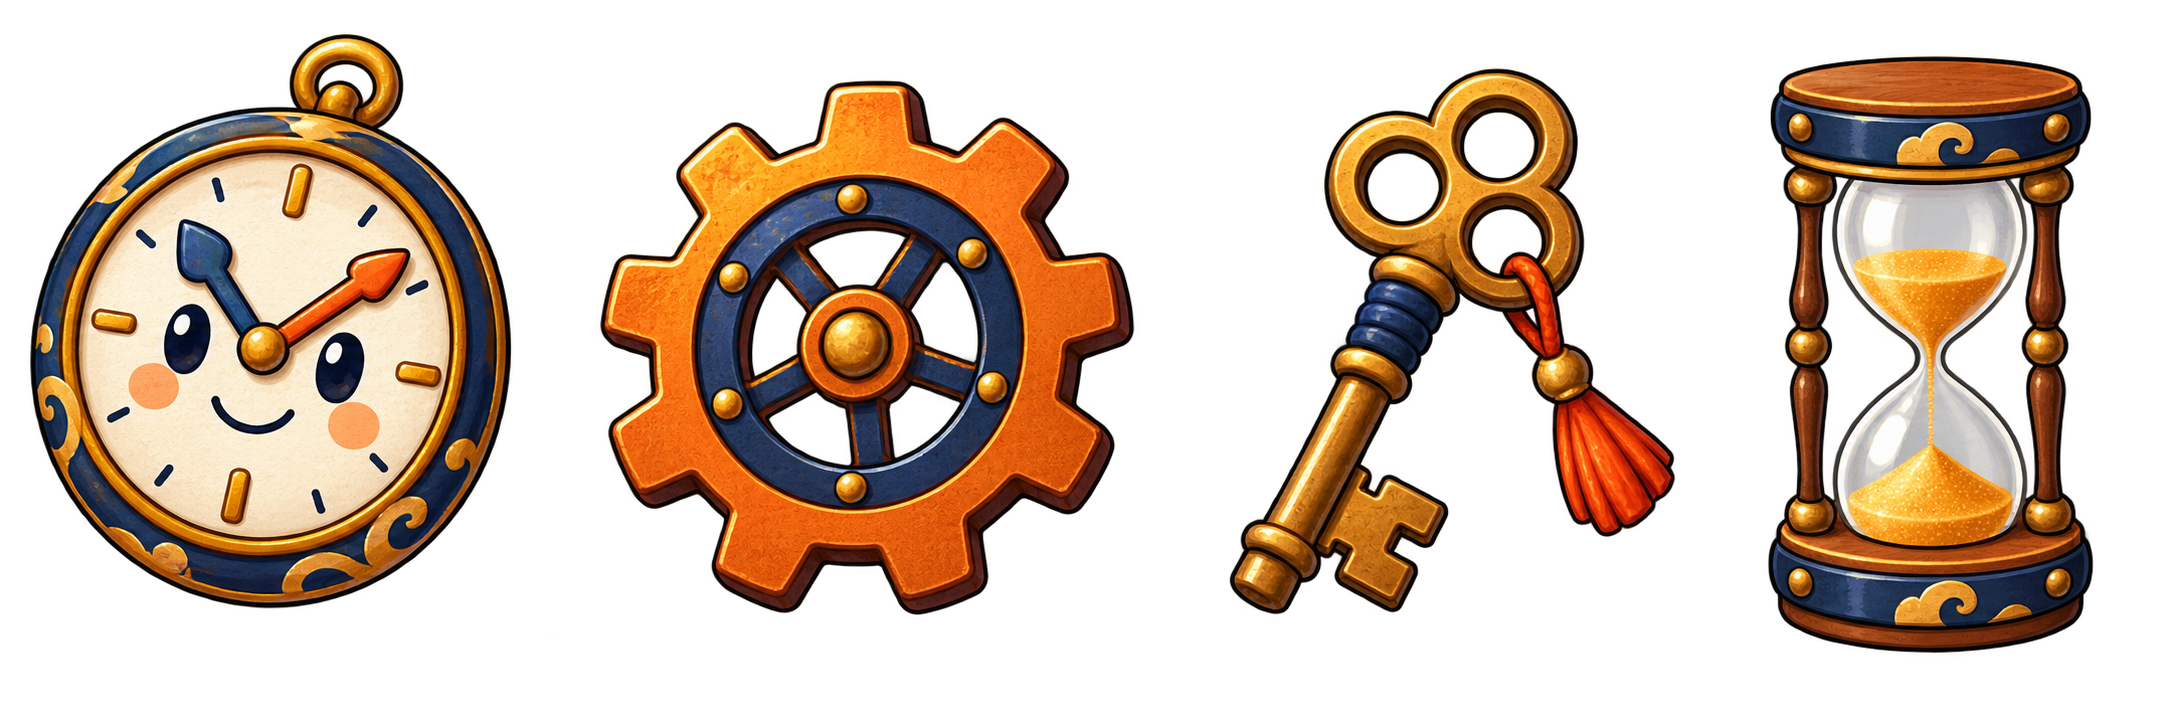
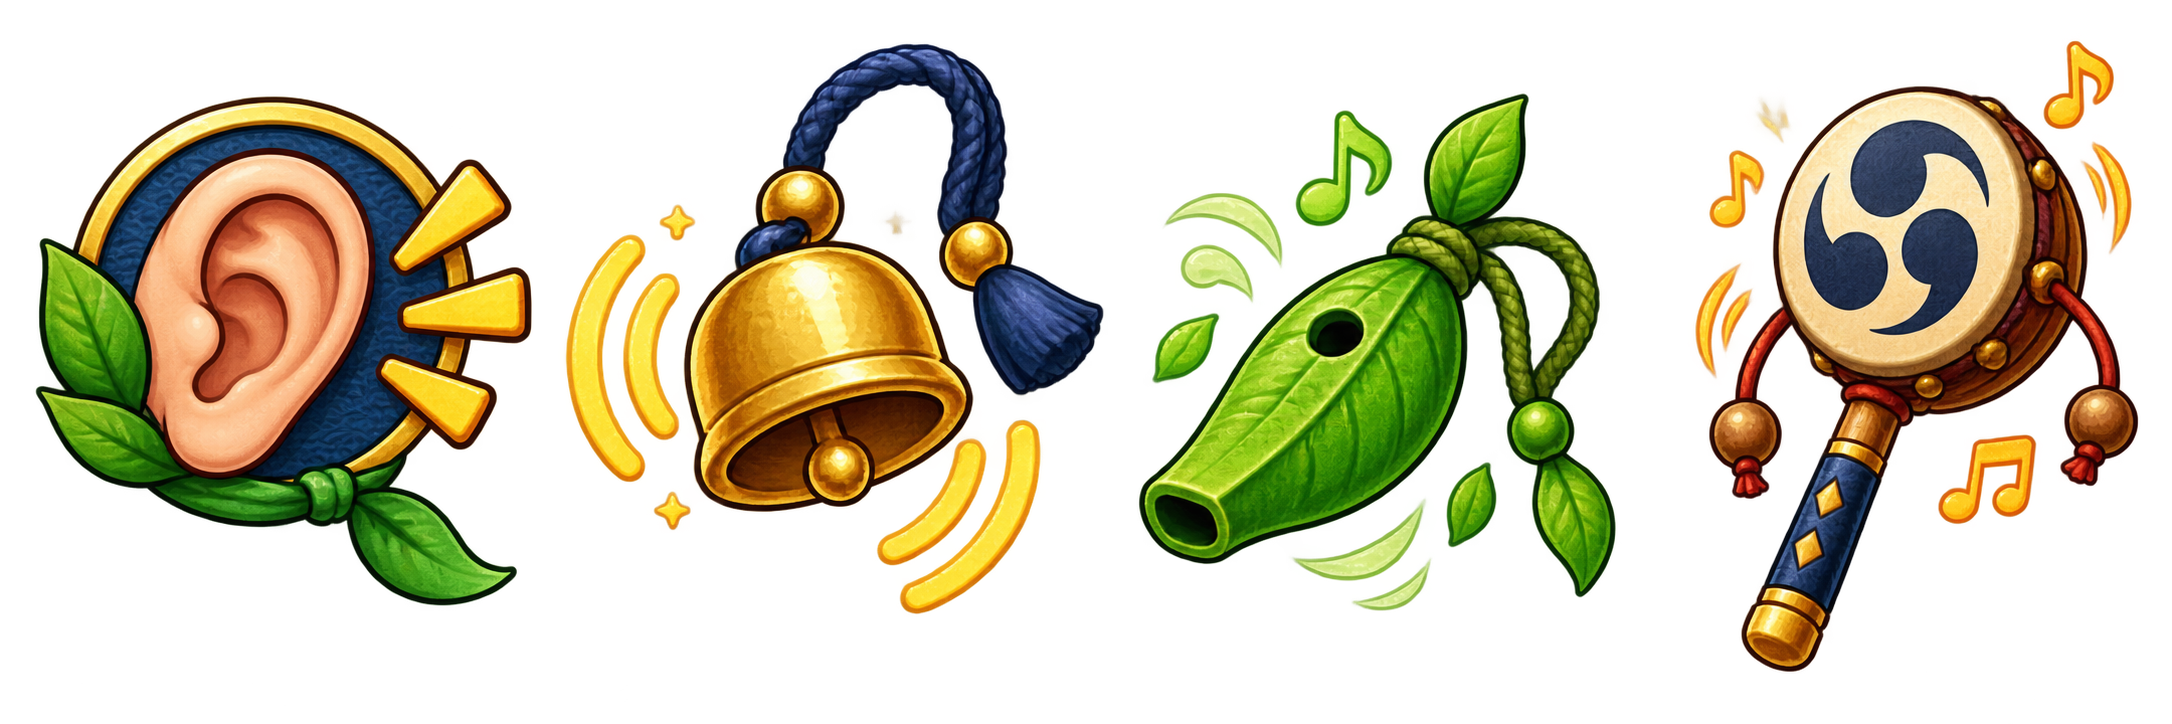
fix(修行): アイテム絵の取りちがえを直し、あそびかたを横3列・選択肢に番号を出す
- アイテム絵のファイル名と中身がずれていた。かんじ↔ローマ字、とけい↔フォニックス を
  入れ替えて、各アプリ・ランディングが自分の世界観の絵を出すようにする
  （とけいのランディングに耳と鈴、ローマ字に筆と印が出ていた）
- フォニックスのランディングだけ番号付きの道具絵を使っていたので、自分のアイテム絵に統一。
  番号付きの絵は ninja-step-tools-numbered.png に改名（参照なし）
- あそびかた3ステップを横3列にそろえる（カタカナ・ローマ字・フォニックス。スマホは1列）
- 問題の選択肢に1問ごとの通し番号を左上に出す（全5アプリ共通）
- フォニックス: c と k がどちらも「ク」のため同じ選択肢が2つ並ぶことがあったのを修正。
  音で重複を落としてからまちがい選択肢を取り、最後に必ず重複を落とす（3000回サンプルで0件）

diff --git a/js/phonics.js b/js/phonics.js
@@ -54,16 +54,33 @@
 
   function pick(arr, n) { return shuffle(arr.slice()).slice(0, n); }
 
+  // 同じ見た目の選択肢が2つ並ぶと「どっちも正解では？」になるので、必ず落とす
+  function uniq(arr) {
+    var seen = {};
+    return arr.filter(function (v) {
+      if (seen[v]) return false;
+      seen[v] = true;
+      return true;
+    });
+  }
+
   /* ---------- 出題づくり ---------- */
 
   // 1. もじの おと：文字を見て「名前」ではなく「音」を えらぶ
   function buildOto() {
     return pick(D.letters, QUESTIONS).map(function (x) {
-      var others = D.letters.filter(function (y) {
-        return y.l !== x.l && y.oto !== x.oto && y.oto !== x.name;
+      // c と k はどちらも「ク」のように、別の文字でも音が同じことがある。
+      // 音で重複を落としてから2つ取らないと、同じ選択肢が2つ並ぶ
+      var used = {};
+      used[x.oto] = true;
+      used[x.name] = true;
+      var others = shuffle(D.letters.slice()).filter(function (y) {
+        if (y.l === x.l || used[y.oto]) return false;
+        used[y.oto] = true;
+        return true;
       });
       // まちがい選択肢に **その文字の「名前」** を まぜる（ここが つまずきの 正体）
-      var wrongs = pick(others, 2).map(function (y) { return y.oto; });
+      var wrongs = others.slice(0, 2).map(function (y) { return y.oto; });
       return {
         type: 'oto',
         show: x.l,
@@ -71,7 +88,7 @@
         word: x.oto,
         cat: 'もじの おと',
         hint: '「' + x.l + '」の 名前は ' + x.name + '。でも 音は ' + x.oto + '。' + x.ex + '（' + x.ja + '）の はじめの 音です。',
-        choices: shuffle([x.oto, x.name].concat(wrongs)),
+        choices: shuffle(uniq([x.oto, x.name].concat(wrongs))),
       };
     });
   }
@@ -89,7 +106,7 @@
           var hit = D.letters.filter(function (y) { return y.l === c; })[0];
           return hit ? hit.oto : c;
         }).join('・') + ' を つなげて「' + x.w + '」（' + x.ja + '）。',
-        choices: shuffle([x.w].concat(x.near.slice(0, 3))),
+        choices: shuffle(uniq([x.w].concat(x.near.slice(0, 3)))),
       };
     });
   }
@@ -105,7 +122,7 @@
         cat: 'まほうの e',
         hint: 'さいごの e は 読みません。でも まえの 母音を 名前の 音に かえます。' +
               'ローマ字読みだと「' + x.romaji + '」ですが、英語では「' + x.yomi + '」（' + x.ja + '）。',
-        choices: shuffle([x.yomi, x.romaji, x.eYomi]),
+        choices: shuffle(uniq([x.yomi, x.romaji, x.eYomi])),
       };
     });
   }

diff --git a/css/ninja-kids.css b/css/ninja-kids.css
@@ -1925,3 +1925,31 @@ body.ninja-phonics { --nk-items:url('/assets/images/ninja/items/phonics-items.we
 .ninja-kids.ninja-kanji .nk-doc-ref a { color:#ffad92; }
 .ninja-kids.ninja-kanji .nk-back-tools a { border-color:#ffad92; color:#ffad92; }
 .ninja-kids.ninja-kanji .nk-back-tools a:hover { background:#ffad92; color:#07131a; }
+
+/* 選択肢の通し番号（2026-08-26）。
+   「2ばんめの やつ」と口で言えるように、1問ごとに 1 から振り直して左上に出す。
+   文字は中央ぞろえのままにしたいので、番号は絶対配置にしてレイアウトに影響させない。 */
+.ninja-kids :is(.tk-options,.kj-options,.kt-choices,.rj-choices,.pn-choices) {
+  counter-reset:nk-opt;
+}
+.ninja-kids :is(.tk-opt,.kj-opt,.kt-choice,.rj-choice,.pn-choice) {
+  position:relative;
+}
+.ninja-kids :is(.tk-options,.kj-options,.kt-choices,.rj-choices,.pn-choices)>:is(.tk-opt,.kj-opt,.kt-choice,.rj-choice,.pn-choice)::before {
+  counter-increment:nk-opt;
+  content:counter(nk-opt);
+  display:grid;
+  place-items:center;
+  position:absolute;
+  top:5px;
+  left:7px;
+  width:20px;
+  height:20px;
+  border-radius:50%;
+  background:color-mix(in srgb,var(--nk-accent) 15%,#fff);
+  color:var(--nk-accent-dark);
+  font-size:11px;
+  font-weight:900;
+  line-height:1;
+  pointer-events:none;
+}

diff --git a/css/katakana.css b/css/katakana.css
@@ -152,7 +152,7 @@ body{
 /* ====== おうちのかたへ・FAQ ====== */
 .kt-doc{max-width:700px;margin:40px auto 0;padding:0 20px}
 .kt-doc h2{font-size:15px;font-weight:900;margin:28px 0 14px;letter-spacing:.06em}
-.kt-steps{display:grid;gap:12px}
+.kt-steps{display:grid;grid-template-columns:repeat(3,1fr);gap:14px}
 .kt-step{border:1px solid var(--kt-line);border-radius:12px;background:#fff;padding:16px 18px}
 .kt-step-n{
   display:inline-grid;place-items:center;width:24px;height:24px;border-radius:50%;
@@ -175,6 +175,7 @@ body{
 
 @media (max-width:767px){
   .kt-hero{padding:24px 20px 22px}
+  .kt-steps{grid-template-columns:1fr}
   .kt-hero h1{font-size:26px}
   .kt-q-word{font-size:28px}
   .kt-q-word.is-big{font-size:64px}

diff --git a/css/phonics.css b/css/phonics.css
@@ -152,7 +152,7 @@ body{
 /* ====== おうちのかたへ・FAQ ====== */
 .pn-doc{max-width:700px;margin:40px auto 0;padding:0 20px}
 .pn-doc h2{font-size:15px;font-weight:900;margin:28px 0 14px;letter-spacing:.06em}
-.pn-steps{display:grid;gap:12px}
+.pn-steps{display:grid;grid-template-columns:repeat(3,1fr);gap:14px}
 .pn-step{border:1px solid var(--pn-line);border-radius:12px;background:#fff;padding:16px 18px}
 .pn-step-n{
   display:inline-grid;place-items:center;width:24px;height:24px;border-radius:50%;
@@ -175,6 +175,7 @@ body{
 
 @media (max-width:767px){
   .pn-hero{padding:24px 20px 22px}
+  .pn-steps{grid-template-columns:1fr}
   .pn-hero h1{font-size:26px}
   .pn-q-word{font-size:28px}
   .pn-q-word.is-big{font-size:64px}

diff --git a/css/romaji.css b/css/romaji.css
@@ -152,7 +152,7 @@ body{
 /* ====== おうちのかたへ・FAQ ====== */
 .rj-doc{max-width:700px;margin:40px auto 0;padding:0 20px}
 .rj-doc h2{font-size:15px;font-weight:900;margin:28px 0 14px;letter-spacing:.06em}
-.rj-steps{display:grid;gap:12px}
+.rj-steps{display:grid;grid-template-columns:repeat(3,1fr);gap:14px}
 .rj-step{border:1px solid var(--rj-line);border-radius:12px;background:#fff;padding:16px 18px}
 .rj-step-n{
   display:inline-grid;place-items:center;width:24px;height:24px;border-radius:50%;
@@ -175,6 +175,7 @@ body{
 
 @media (max-width:767px){
   .rj-hero{padding:24px 20px 22px}
+  .rj-steps{grid-template-columns:1fr}
   .rj-hero h1{font-size:26px}
   .rj-q-word{font-size:28px}
   .rj-q-word.is-big{font-size:64px}

diff --git a/css/ninja-landing.css b/css/ninja-landing.css
@@ -343,7 +343,7 @@ body.ninja-lp-tokei { --nl-items:url('/assets/images/ninja/items/tokei-items.web
 body.ninja-lp-kanji { --nl-items:url('/assets/images/ninja/items/kanji-items.webp'); }
 body.ninja-lp-katakana { --nl-items:url('/assets/images/ninja/items/katakana-items.webp'); }
 body.ninja-lp-romaji { --nl-items:url('/assets/images/ninja/items/romaji-items.webp'); }
-body.ninja-lp-phonics { --nl-items:url('/assets/images/ninja/items/phonics-ninja-tools.png'); }
+body.ninja-lp-phonics { --nl-items:url('/assets/images/ninja/items/phonics-items.webp'); }
 .ninja-landing .eal-hero + .eal-section .eal-head::before {
   content:'';
   display:block;

diff --git a/specs/_common.md b/specs/_common.md
@@ -58,6 +58,13 @@ LP型の枠＋固定ルール:
   - **ラベルは動作で言い切る**。「よみかた」「かんじ」「じかんのみ」のような名詞1語では何をするか伝わらない
     （→「かんじを よむ しゅぎょう」「ちょうどの じかん」）。補助の note には範囲や例を入れる
   - スタートがあるアプリは、**選択肢の全部より1段下・中央**に置く（幅は `min(100%,320px)`）
+  - **あそびかた3ステップは横3列**（スマホは1列）。アプリで縦積み／横並びがばらつかないようそろえる
+  - **問題の選択肢には1問ごとに振り直す通し番号**を左上に出す（`ninja-kids.css` の `counter-reset:nk-opt`）。
+    「2ばんめの やつ」と口で言えるようにするため。番号は絶対配置にして、選択肢の文字ぞろえを崩さない
+  - **同じ見た目の選択肢を2つ出さない**（c と k はどちらも「ク」のように、別データでも表示が同じになる）。
+    出題づくりの最後で必ず重複を落とす
+  - **アイテム絵（`--nk-items` / `--nl-items`）はアプリごとの世界観のもの**を使う。
+    ファイル名と中身がずれていたことがある（2026-08-26に かんじ↔ローマ字・とけい↔フォニックス を入れ替えて修正）
 - 更新日表記「更新日：YYYY-MM-DD」（Vercelアプリはビルド日自動焼き込み・静的アプリは手動）
 - 上に戻るフロートボタン（`button` に操作名を付与し、prefers-reduced-motion 時はスムーズスクロールを無効化）
 
